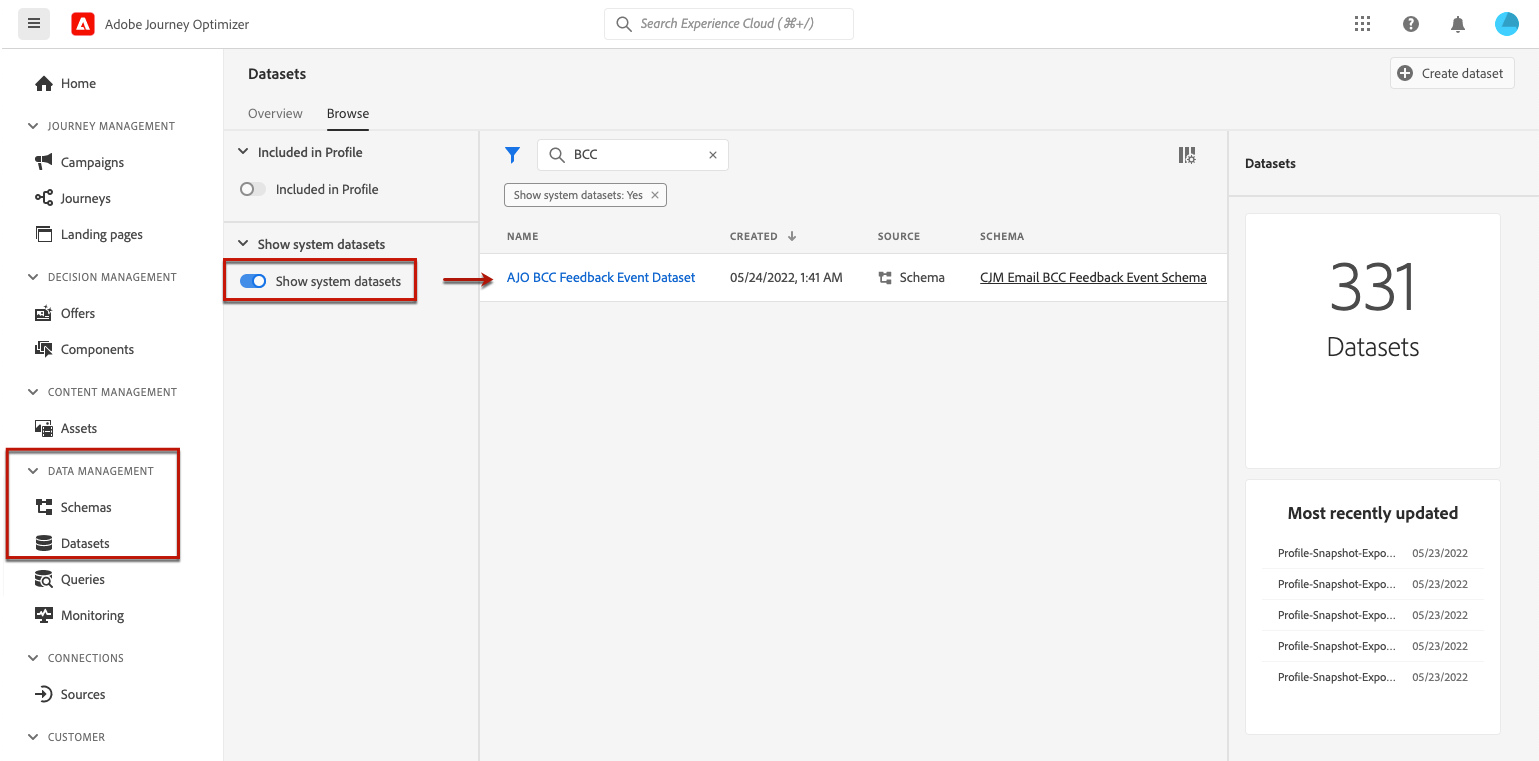
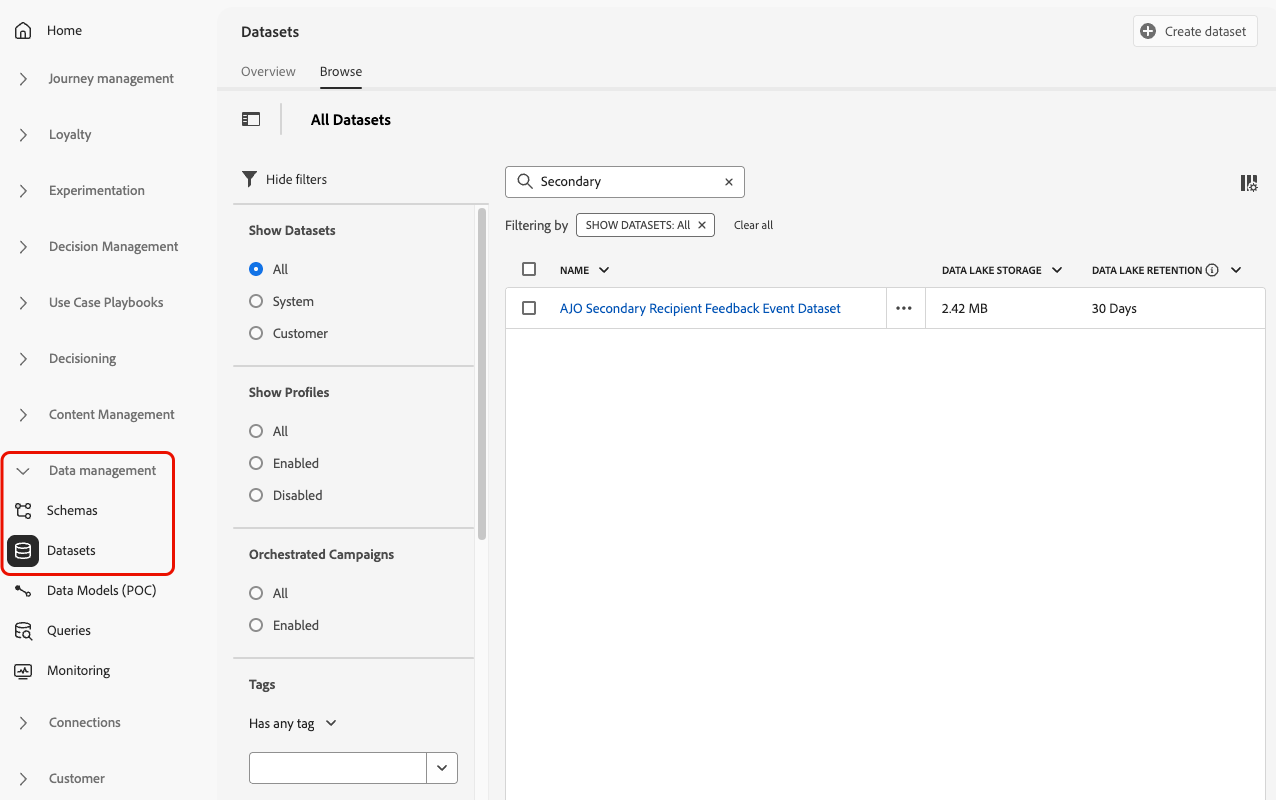
BCC screenshot updates

diff --git a/help/using/configuration/archiving-support.md b/help/using/configuration/archiving-support.md
@@ -84,7 +84,7 @@ To do this, follow the steps below.
 
 1. Go to **[!UICONTROL Data management]** > **[!UICONTROL Schemas]** > **[!UICONTROL Browse]** and select **[!UICONTROL AJO Secondary Recipient Feedback Event Schema]**.
 
-    <!--<![](assets/preset-bcc-schema.png)-->
+    ![](assets/preset-bcc-schema.png){width="95%"}
 
 1. Click to expand **[!UICONTROL _experience]**, **[!UICONTROL customerJourneyManagment]** then **[!UICONTROL secondaryRecipientDetail]**.
 
@@ -96,7 +96,7 @@ To do this, follow the steps below.
 
 1. Select a namespace from the drop-down list.
 
-    <!--<![](assets/preset-bcc-schema-identity.png)-->
+    ![](assets/preset-bcc-schema-identity.png){width="85%"}
 
 1. Click **[!UICONTROL Apply]**.
 
@@ -110,11 +110,11 @@ Reporting as such on BCC is not available in the journey and message reports. Ho
 
 To access this dataset through the user interface, select **[!UICONTROL Data management]** > **[!UICONTROL Datasets]** > **[!UICONTROL Browse]**. Learn more about how to access datasets in [this section](../data/get-started-datasets.md#access-datasets).
 
-<!--![](assets/preset-bcc-dataset.png)-->
+![](assets/preset-bcc-dataset.png){width="85%"}
 
 To run queries against this dataset, you can use the Query Editor provided by the [Adobe Experience Platform Query Service](https://experienceleague.adobe.com/docs/experience-platform/query/api/getting-started.html){target="_blank"}. To access it, select **[!UICONTROL Data management]** > **[!UICONTROL Queries]** and click **[!UICONTROL Create query]**. [Learn more](../data/get-started-queries.md)
 
-![](assets/preset-bcc-queries.png)
+![](assets/preset-bcc-queries.png){width="100%"}
 
 Depending on what information you are looking for, you can run the following queries.
 
@@ -139,7 +139,7 @@ Depending on what information you are looking for, you can run the following que
     >
     >To get the `<journey version id>`parameter, select the corresponding journey version from the **[!UICONTROL Journey management]** > **[!UICONTROL Journeys]** menu. The journey version ID is displayed at the end of the URL displayed in your web browser. [Learn more about journey versions](../building-journeys/publish-journey.md#journey-versions)
     >
-    >![](assets/preset-bcc-action-id.png)
+    >![](assets/preset-bcc-action-id.png){width="85%"}
 
 1. Run this query to fetch all message feedback events (especially feedback status) generated for a particular message targeted to a specific user within the last 2 days:
 
